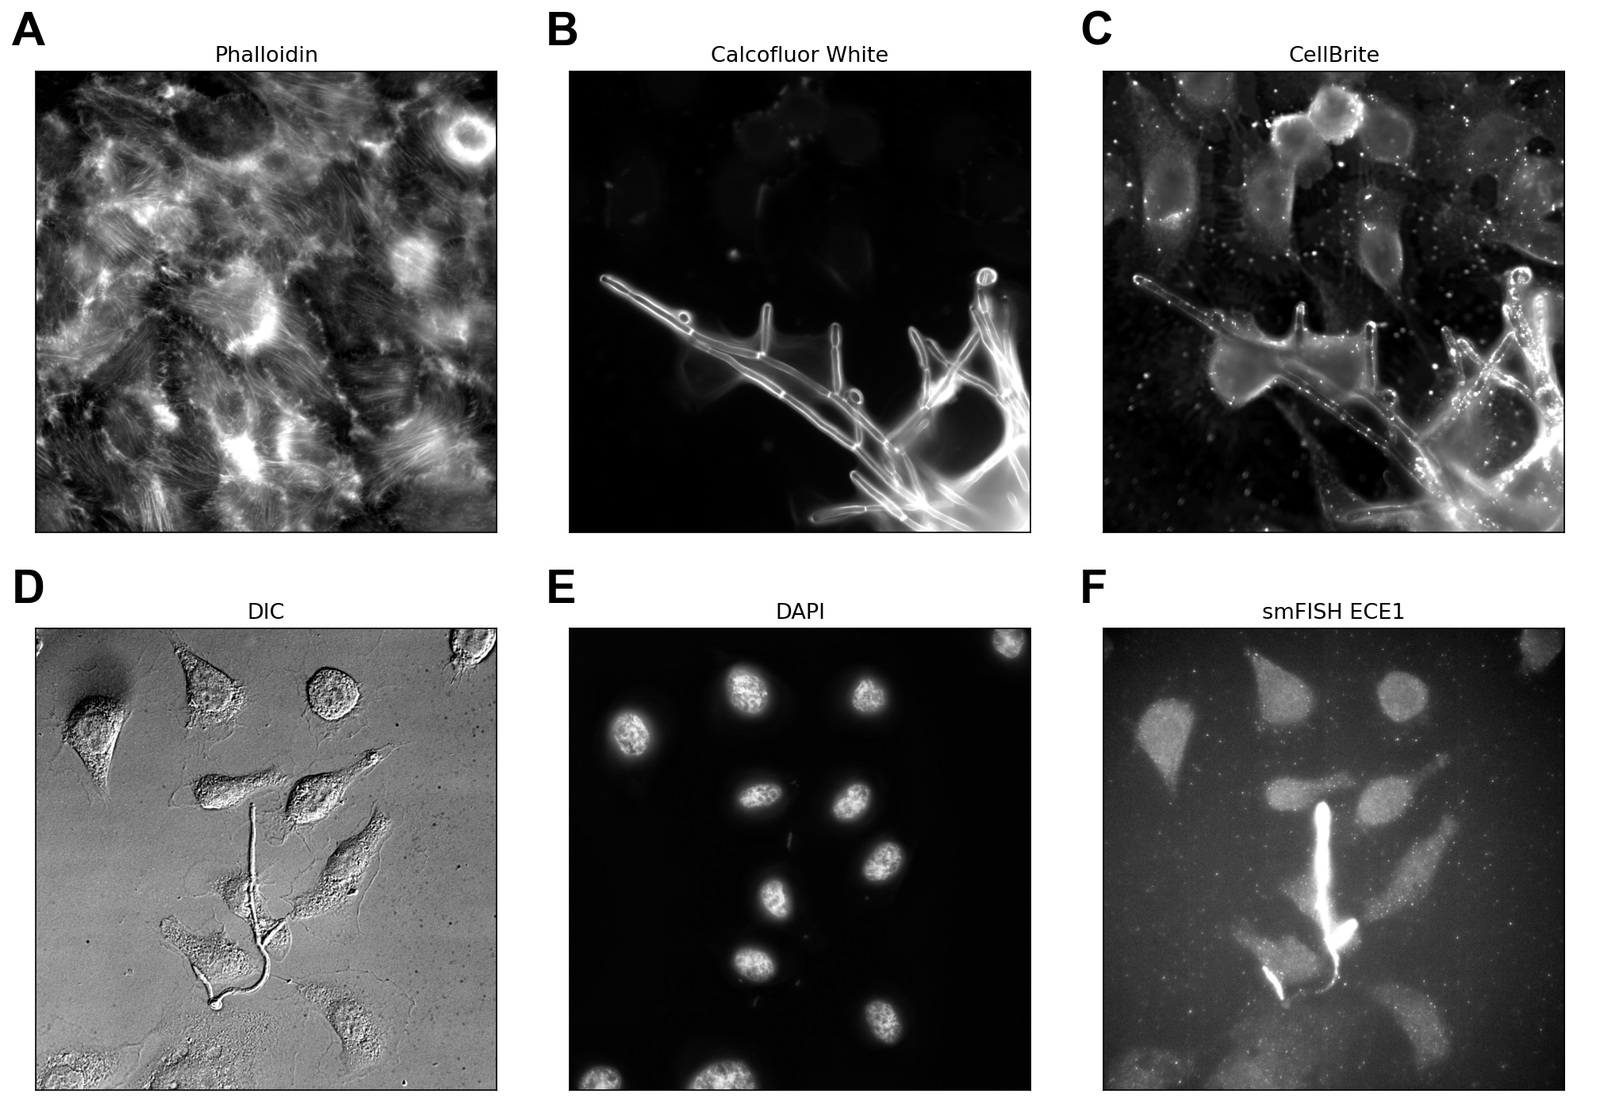
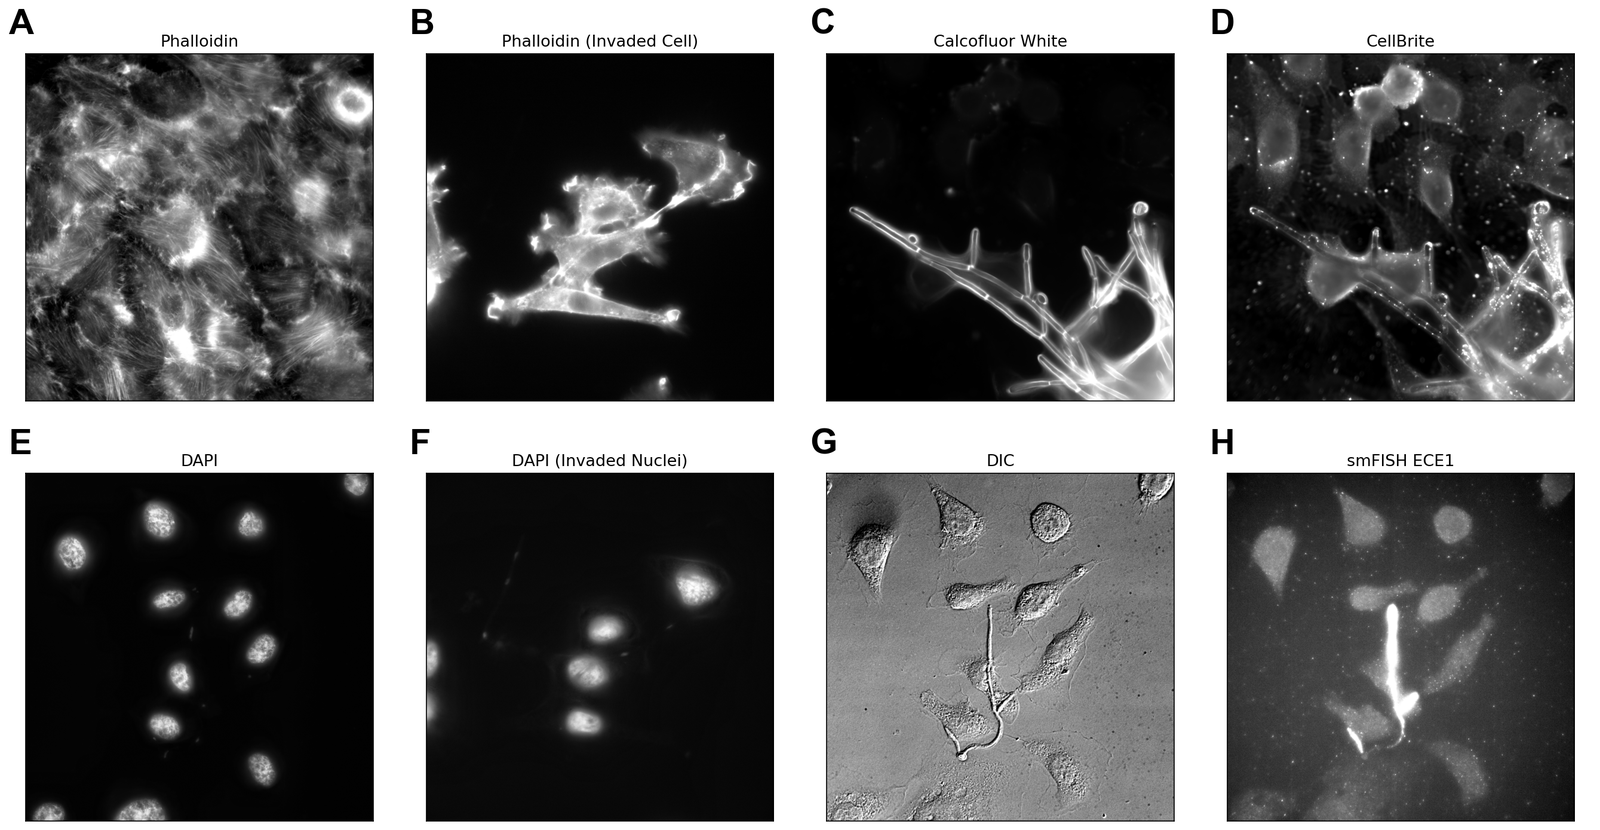
docs(readme): expand raw-data figure to 8 imaging modalities
- Add Phalloidin (Invaded Cell) and DAPI (Invaded Nuclei) panels to the
  raw-data composite, now a 2x4 grid (A-H) instead of 2x3 (A-F)
- Apply ImageJProcessor.enhance_contrast_clahe to both DAPI panels, since
  nuclei sit in a narrower intensity range than the rest of the field
- Save the composite as a vector PDF (assembled_fig_8images.pdf) for the
  thesis document, alongside the rasterized PNG that feeds the README asset
- Point assets/readme/make_assets.py at the new 8-panel PNG source and
  update the README caption to describe all eight panels

diff --git a/assets/readme/make_assets.py b/assets/readme/make_assets.py
@@ -16,7 +16,7 @@ MAX_WIDTH = 1600
 
 SOURCES = [
     (FIGURES / "flow.png", "01_pipeline_flow.png"),
-    (FIGURES / "assembled_fig_6images.png", "02_raw_data.png"),
+    (FIGURES / "assembled_fig_8images.png", "02_raw_data.png"),
     (FIGURES / "generalization" / "generalization_before_after.png", "03_generalization.png"),
     (FIGURES / "Node_type_GCN.png", "04_gcn_architecture.png"),
     (FIGURES / "gcn_cell_graph" / "CET112_HWP1Cal610_6h_GoC_01_DIC.png", "05_cell_merge_graph.png"),

diff --git a/README.md b/README.md
@@ -64,8 +64,9 @@ interpretation) lives in the numbered notebooks under `notebooks/`, run in order
 
 ## Results at a glance
 
-**Raw data.** Imaging modalities used across the dataset. (A) Phalloidin. (B) Calcofluor
-white. (C) CellBrite. (D) DIC. (E) DAPI. (F) smFISH against *ECE1*.
+**Raw data.** Imaging modalities used across the dataset. (A) Phalloidin. (B) Phalloidin
+(invaded cell). (C) Calcofluor white. (D) CellBrite. (E) DAPI. (F) DAPI (invaded nuclei).
+(G) DIC. (H) smFISH against *ECE1*.
 
 ![Raw data](assets/readme/02_raw_data.png)
 